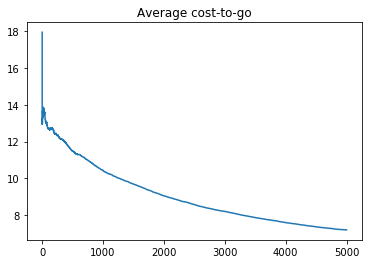
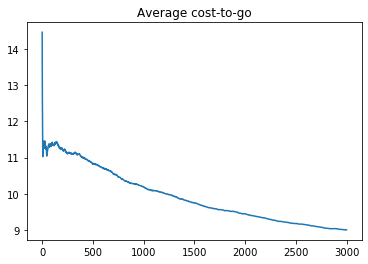
implement double pendulum

diff --git a/dqn.py b/dqn.py
@@ -14,12 +14,12 @@ np_config.enable_numpy_behavior()
 
 ### --- Hyper paramaters
 SAMPLING_STEPS         = 4             # Steps to sample from replay buffer
-BATCH_SIZE             = 32            # Batch size sampled from replay buffer
+BATCH_SIZE             = 64            # Batch size sampled from replay buffer
 REPLAY_BUFFER_SIZE     = 50000         # Size of replay buffer
-MIN_BUFFER_SIZE        = 1000          # Minimum buffer size to start training
+MIN_BUFFER_SIZE        = 5000          # Minimum buffer size to start training
 UPDATE_Q_TARGET_STEPS  = 100           # Steps to update Q target
-NEPISODES              = 5000          # Number of training episodes
-MAX_EPISODE_LENGTH     = 100           # Max episode length
+NEPISODES              = 3000          # Number of training episodes
+MAX_EPISODE_LENGTH     = 200           # Max episode length
 QVALUE_LEARNING_RATE   = 0.001         # Learning rate of DQN
 GAMMA                  = 0.9           # Discount factor 
 EPSILON                = 1             # Initial exploration probability of eps-greedy policy
@@ -30,9 +30,10 @@ MIN_EPSILON            = 0.001         # Minimum of exploration probability
 class DQN:
     ''' Deep Q Network algorithm '''
     
-    def __init__(self, nu):
+    def __init__(self, nu, nbJoint=1, dt=0.1):
         self.nu = nu
-        self.env = HPendulum(self.nu)
+        self.nbJoint = nbJoint
+        self.env = HPendulum(self.nbJoint, self.nu, dt=dt)
         self.nx = self.env.nx
         
         self.Q = self.get_critic()
@@ -45,7 +46,7 @@ class DQN:
         state_out2 = layers.Dense(32, activation="relu")(state_out1) 
         state_out3 = layers.Dense(64, activation="relu")(state_out2) 
         state_out4 = layers.Dense(64, activation="relu")(state_out3)
-        outputs = layers.Dense(self.nu)(state_out4)
+        outputs = layers.Dense(self.nbJoint*self.nu)(state_out4)
     
         model = tf.keras.Model(inputs, outputs)
     
@@ -53,25 +54,35 @@ class DQN:
 
     def update(self, batch):
         ''' Update the weights of the Q network using the specified batch of data '''
-        x_batch      = np.array([sample[0] for sample in batch]).squeeze()
+        x_batch      = np.array([sample[0] for sample in batch])
         u_batch      = np.array([sample[1] for sample in batch])
         cost_batch   = np.array([sample[2] for sample in batch])
-        x_next_batch = np.array([sample[3] for sample in batch]).squeeze()
+        x_next_batch = np.array([sample[3] for sample in batch])
         done_batch   = np.array([sample[4] for sample in batch])
         
+        n = len(batch)
+        
         with tf.GradientTape() as tape:
-            target_value = np.min(self.Q_target(x_next_batch, training=True), axis=1)
+            # Compute Q target
+            target_output = self.Q_target(x_next_batch, training=True).reshape((n,-1,self.nbJoint))
+            target_value  = tf.math.reduce_sum(np.min(target_output, axis=1), axis=1)
             
             # Compute 1-step targets for the critic loss
-            y = np.zeros(len(batch))
+            y = np.zeros(n)
             for id, done in enumerate(done_batch):
                 if done:
                     y[id] = cost_batch[id]
                 else:
-                    y[id] = cost_batch[id] + GAMMA*target_value[id]            
+                    y[id] = cost_batch[id] + GAMMA*target_value[id]      
             
-            Q_output = self.Q(x_batch, training=True)
-            Q_value  = Q_output[np.arange(len(batch)), u_batch]
+            # Compute Q
+            Q_output = self.Q(x_batch, training=True).reshape((n,-1,self.nbJoint))
+            d1 = np.repeat(np.arange(n),self.nbJoint).reshape(n,-1)
+            d2 = u_batch.reshape(n,-1)
+            d3 = np.repeat(np.arange(self.nbJoint).reshape(1,-1),n,axis=0)
+            Q_value  = tf.math.reduce_sum(Q_output[d1, d2, d3], axis=1)
+            
+            # Compute Q loss
             Q_loss = tf.math.reduce_mean(tf.math.square(y - Q_value))
         
         Q_grad = tape.gradient(Q_loss, self.Q.trainable_variables)
@@ -80,10 +91,13 @@ class DQN:
     def pick_control(self, x, epsilon):
         ''' Pick control by epsilon-greedy strategy '''
         if uniform(0,1) < epsilon:
-            u = randint(self.nu)
+            u = randint(self.nu, size=self.nbJoint)
         else:
-            u = np.argmin(self.Q.predict(x.T))
-        
+            pred = self.Q.predict(x.reshape(1,-1))
+            u = np.argmin(pred.reshape(self.nu,self.nbJoint), axis=0)
+    
+        if len(u) == 1:
+            u = u[0]
         return u
 
     def learning(self, nprint=100):
@@ -99,6 +113,8 @@ class DQN:
         
         steps = 0
         epsilon = EPSILON
+        
+        t = time.time()
         
         for episode in range(NEPISODES):
             cost_to_go = 0.0
@@ -135,8 +151,10 @@ class DQN:
             self.h_ctg.append(cost_to_go)
             
             if episode % nprint == 0:
-                print('Episode #%d done with cost %d and %.1f exploration prob' % (
-                      episode, np.mean(self.h_ctg[-nprint:]), 100*epsilon))
+                dt = time.time() - t
+                t = time.time()
+                print('Episode #%d done with cost %.1f and %.1f exploration prob, used %.1f s' % (
+                      episode, np.mean(self.h_ctg[-nprint:]), 100*epsilon, dt))
         
         self.plot_h_ctg()
     
@@ -146,7 +164,7 @@ class DQN:
         plt.title ("Average cost-to-go")
         plt.show()
     
-    def render(self, x=None, maxiter=100):
+    def render(self, x=None, maxiter=150):
         '''Roll-out from random state using trained DQN.'''
         # Load NN weights from file
         self.Q.load_weights("model/dqn.h5")
@@ -160,13 +178,16 @@ class DQN:
         gamma_i = 1
         
         for i in range(maxiter):
-            u = np.argmin(self.Q.predict(x.T))
+            pred = self.Q.predict(x.reshape(1,-1))
+            u = np.argmin(pred.reshape(self.nu,self.nbJoint), axis=0)
+            if len(u) == 1:
+                u = u[0]
             x, cost = self.env.step(u)
             costToGo += gamma_i*cost
             gamma_i *= GAMMA
             self.env.render()
         
-        print("Real cost to go of state", x0.squeeze(), ":", costToGo)
+        print("Real cost to go of state", x0, ":", costToGo)
 
 if __name__=='__main__':
     ### --- Random seed
@@ -175,6 +196,8 @@ if __name__=='__main__':
     np.random.seed(RANDOM_SEED)
     
     nu = 11
-    dqn = DQN(nu)
-    dqn.learning()
+    nbJoint = 2
+    dqn = DQN(nu,nbJoint)
+    
+    #dqn.learning()
     dqn.render()

diff --git a/env/pendulum.py b/env/pendulum.py
@@ -122,6 +122,7 @@ class Pendulum:
             q0 = np.pi*(np.random.rand(self.nq)*2-1)
             v0 = np.random.rand(self.nv)*2-1
             x0 = np.vstack([q0,v0])
+        x0 = x0.flatten()
         assert len(x0)==self.nx
         self.x = x0.copy()
         self.r = 0.0
@@ -129,7 +130,7 @@ class Pendulum:
 
     def step(self, u):
         ''' Simulate one time step '''
-        u = u if type(u) is list else [u]
+        u = u if type(u) is np.ndarray else [u]
         assert(len(u)==self.nu)
         _,self.r = self.dynamics(self.x, u)
         return self.obs(self.x), self.r
@@ -167,7 +168,7 @@ class Pendulum:
             pin.computeAllTerms(self.model,self.data,q,v)
             M   = self.data.M
             b   = self.data.nle
-            a   = inv(M)*(u-self.Kf*v-b)
+            a   = inv(M).dot(u-self.Kf*v-b)
             a   = a.reshape(self.nv) + np.random.randn(self.nv)*self.noise_stddev
             self.a = a
 

diff --git a/env/hpendulum.py b/env/hpendulum.py
@@ -9,8 +9,9 @@ class HPendulum:
         torque are discretized with the specified steps. Torque is saturated.
         Guassian noise can be added in the dynamics.
     '''
-    def __init__(self, nu=11, uMax=5, dt=0.2, ndt=1, noise_stddev=0):
-        self.pendulum = Pendulum(1,noise_stddev)
+    def __init__(self, nbJoint=1, nu=11, uMax=5, dt=0.2, ndt=1, noise_stddev=0):
+        self.nbJoint  = nbJoint
+        self.pendulum = Pendulum(self.nbJoint,noise_stddev)
         self.pendulum.DT  = dt
         self.pendulum.NDT = ndt
         self.nu = nu        # Number of discretization steps for joint torque
@@ -21,7 +22,7 @@ class HPendulum:
     # Continuous to discrete
     def c2du(self, u):
         u = np.clip(u,-self.uMax+1e-3,self.uMax-1e-3)
-        return int(np.floor((u+self.uMax)/self.DU))
+        return np.floor((u+self.uMax)/self.DU).astype(int)
     
     # Discrete to continuous
     def d2cu(self, iu):

diff --git a/q_learning.py b/q_learning.py
@@ -110,7 +110,7 @@ if __name__=='__main__':
     
     ### --- Hyper paramaters
     NEPISODES               = 5000          # Number of training episodes
-    NPRINT                  = 100           # print something every NPRINT episodes
+    NPRINT                  = 500           # print something every NPRINT episodes
     MAX_EPISODE_LENGTH      = 100           # Max episode length
     LEARNING_RATE           = 0.8           # alpha coefficient of Q learning algorithm
     DISCOUNT                = 0.9           # Discount factor 
